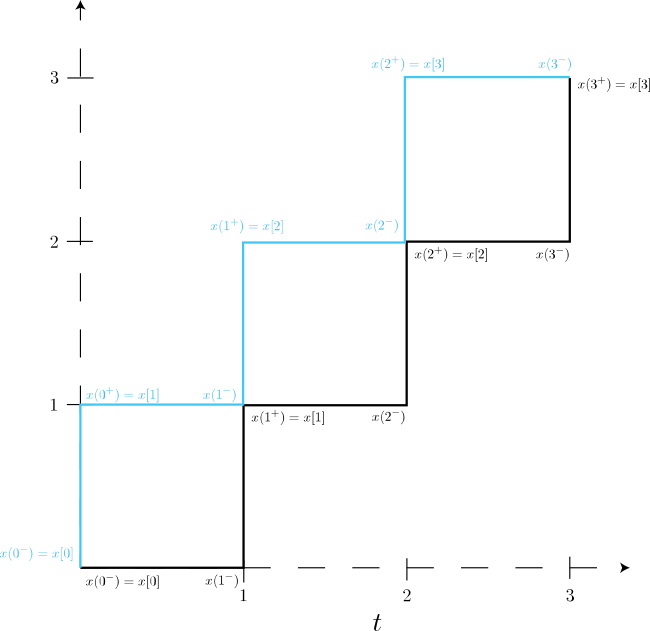
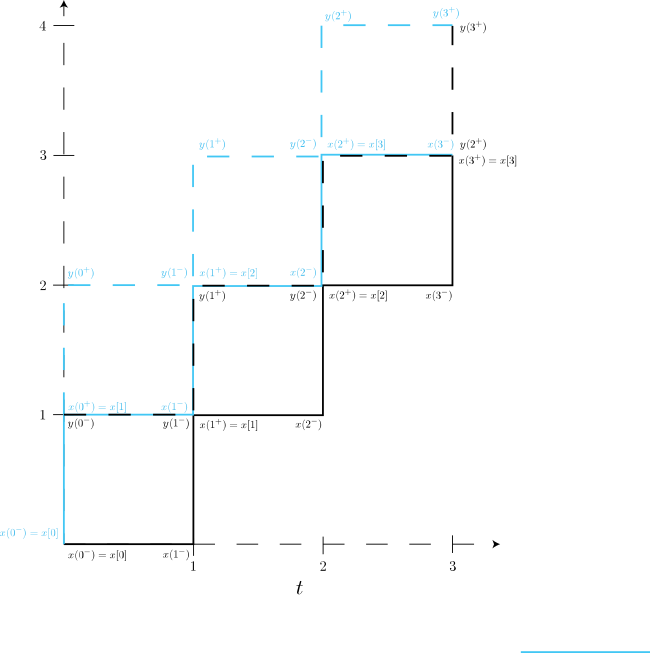
Final polishing.

diff --git a/systems/discrete_systems.h b/systems/discrete_systems.h
@@ -26,7 +26,7 @@ the state and output are a function of a discrete process.
 The following class implements the simple discrete system
 @verbatim
 x[n+1] = x[n] + 1
-y[n] = x[n].
+y[n] = x[n] + 1
 @endverbatim
 as a Drake LeafSystem:
 
@@ -35,10 +35,11 @@ class SimpleDiscreteSystem : public LeafSystem<double> {
  public:
   DRAKE_NO_COPY_NO_MOVE_NO_ASSIGN(SimpleDiscreteSystem)
   SimpleDiscreteSystem() {
+    const int state_dim = 1;
     this->DeclarePeriodicDiscreteUpdate(kPeriod, kOffset);
     this->DeclareVectorOutputPort("y", BasicVector<double>(1),
         &SimpleDiscreteSystem::CalcOutput);
-    this->DeclareDiscreteState(1 /* single state variable */);
+    this->DeclareDiscreteState(state_dim);
   }
 
   double GetX(const Context<double>& context) {
@@ -61,7 +62,7 @@ class SimpleDiscreteSystem : public LeafSystem<double> {
 
   void CalcOutput(
       const Context<double>& context, BasicVector<double>* output) const {
-    *output[0] = GetX(context);
+    *output[0] = GetX(context) + 1;
   }
 
   const double kPeriod = 1.0;  // Update every second (h=1).
@@ -96,12 +97,13 @@ variables (DiscreteValues) and are usually updated at a specified periodicity
 system shown in Figure 1.
 
 The plot below shows the state evolution of this system over time. Since Drake
-permits continuous and discrete systems to interact, the discrete systems must
+allows continuous and discrete systems to interact, the discrete systems must
 be sample-able at times that correspond to non-integer multiples of `h`.
-Contrast  how the values of `x` are held for finite time in Figure 2
-with the instantaneous values of `x` in Figure 1.
+Contrast how the values of `x` and `y` are held for finite time in Figure 2
+with the instantaneous values of `x` and `y` in Figure 1. The labels will be
+described in the next section (below).
 
-@image html framework/images/simple-discrete.png "Figure 2: Plots of state for the discrete system x[n+1] = x[n] + 1 (from x[0] = 0 and using h = 1). The colors correspond to the evolution of the system with first-update time at zero (black) and h (blue)."
+@image html framework/images/simple-discrete.png "Figure 2: Plots of state for the discrete system x[n+1] = x[n] + 1, y[n] = x[n] + 1 (from x[0] = 0 and using h = 1). The colors and stroke (solid=state, dashed=output) correspond to the evolution of the system with first-update time at zero (black) and h (blue)."
 
 Using time in place of iteration count allows Drake to
 model the evolution of hybrid continuous/discrete systems using a single
@@ -156,14 +158,14 @@ should become apparent.
 
 _For the case of updates starting at time `h`_ (black line):
 1. The discrete value is only advanced to `x[1]` when `t=h`.
-2. The input is evaluated at the right end of each interval, e.g.,
-x(h⁺) is computed using u(h).
+2. The first discrete update samples the input at `h`, i.e., x[1] = `x(h⁺)` is
+   computed using `u(h)`.
 
 _For the case of updates starting at time zero_ (blue line):
 1. Advancing time and state to that at `t = 1e-16` results in the discrete
    value being advanced to `x[1]`.
-2. The input is evaluated at the left end of each discrete interval, e.g.,
-   x(0⁺) is computed using u(0).
+2. The first discrete update samples the input at `0`, i.e., x[1] = x(0⁺) is
+   computed using u(0).
 
 In conclusion, neither of these choices is right or wrong; each choice just
 carries its own implications.
